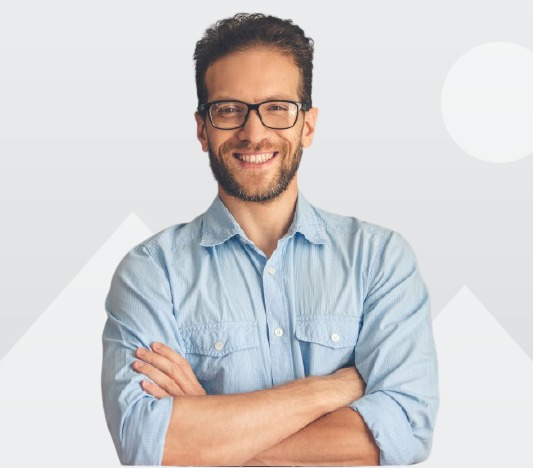
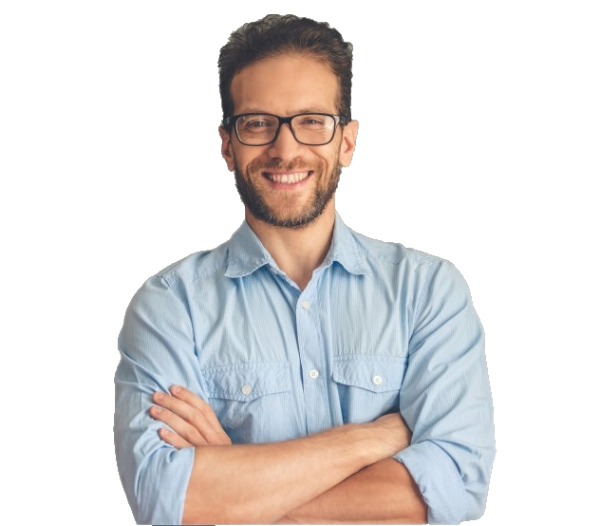
update

diff --git a/style.css b/style.css
@@ -70,6 +70,6 @@ margin-left: 5%;
     width: 30%;
 }
 .background-image{
-    background-image: url(./Image/shapes/7.png);
+    background-image: url(./Image/shapes/Frame\ 58.jpg);
 }
 
